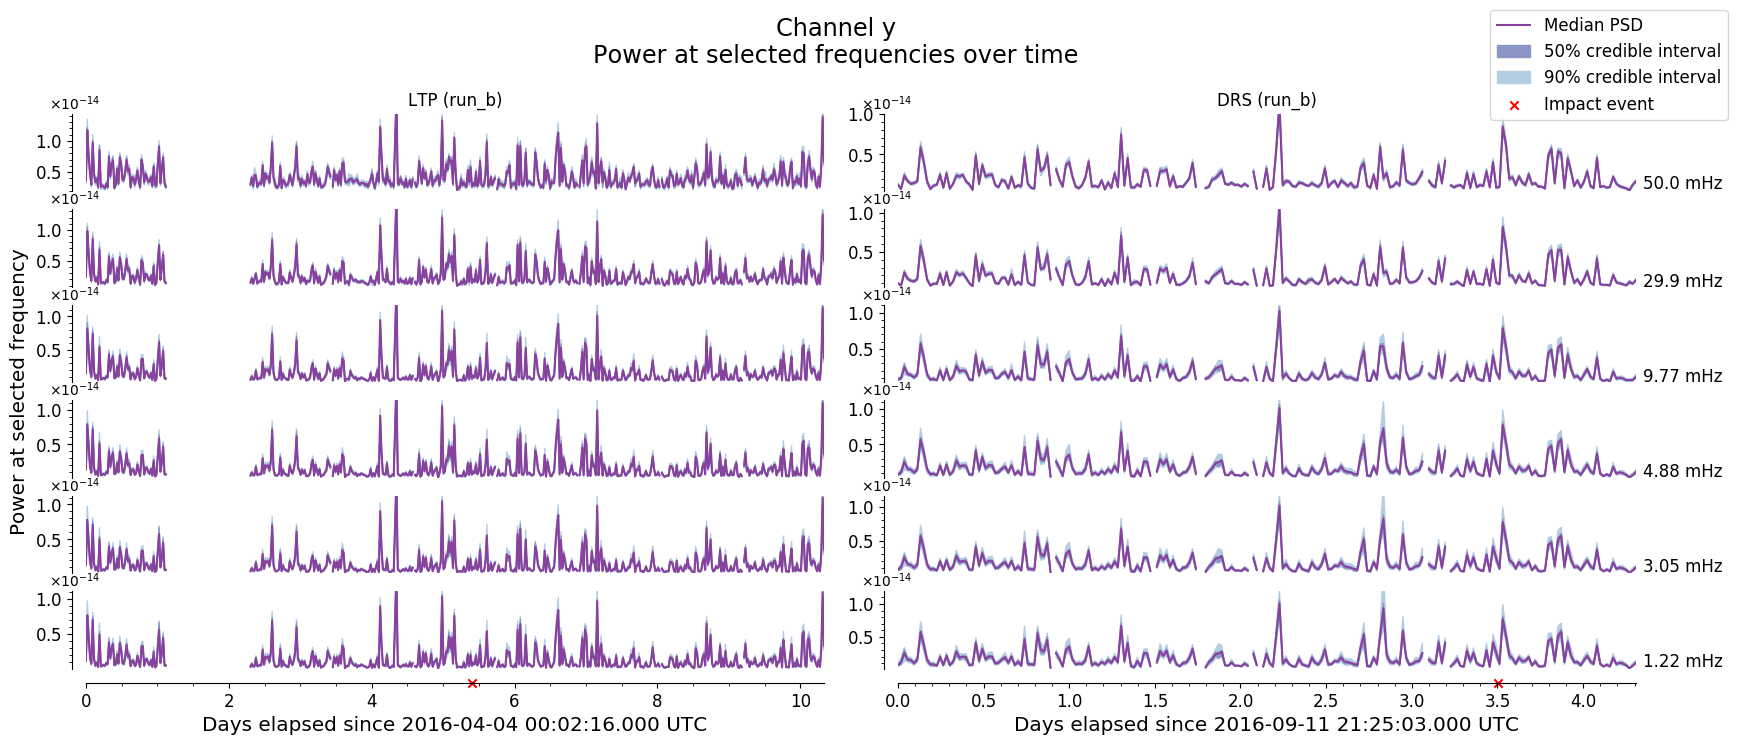
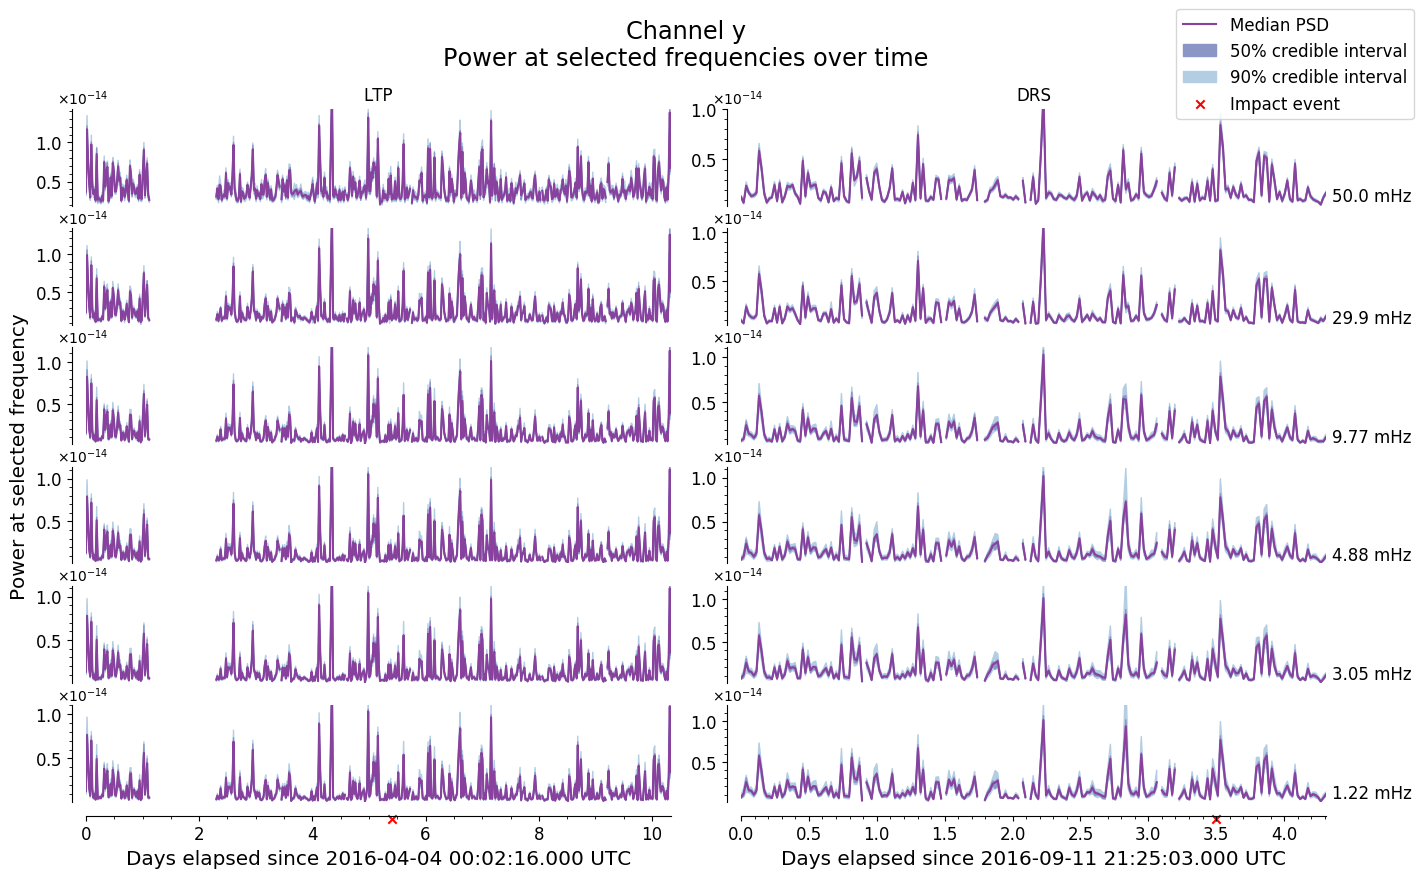
adjusted plot dimensions

Changed region(s): [[0.0, 0.0, 1.0, 0.9879]]

diff --git a/src/plot.py b/src/plot.py
@@ -97,7 +97,7 @@ def colormap(fig, ax, run, psd, cmap, vlims=None, cbar_label=None, center=None,
     ax.set_yscale('log')
     ax.set_ylim(bottom=1e-3, top=1.)
     # Axis labels
-    ax.set_xlabel(f'Days elapsed since {run.start_date} UTC', fontsize='large')
+    ax.set_xlabel(f'Days elapsed since {run.start_date} UTC', fontsize='x-large')
     # Tick label size
     ax.tick_params(axis='both', which='major', labelsize='large')
     # Add and label colorbar
@@ -194,7 +194,7 @@ def save_colormaps(run, channel, plot_file, show=False):
 
 def compare_colormaps(runs, channel, plot_file=None, show=False):
     # Setup figure
-    fig = plt.figure(figsize=(14, 6))
+    fig = plt.figure(figsize=(8 + len(runs) * 4, 9))
     fig.suptitle(f'Channel {channel}\n' + \
             'Power compared to median at observed times, frequencies',
             y=0.99, fontsize='xx-large')
@@ -210,7 +210,7 @@ def compare_colormaps(runs, channel, plot_file=None, show=False):
         median = unstacked.median(axis=1)
         
         # Subplots
-        ax.set_title(f'{run.mode.upper()} ({run.name})', size='x-large')
+        ax.set_title(f'{run.mode.upper()}', size='x-large')
         im = colormap(fig, ax, run,
             unstacked.sub(median, axis=0).div(median, axis=0), 
             cmap=cm.get_cmap('coolwarm'), vlims=(-1,1),
@@ -218,18 +218,18 @@ def compare_colormaps(runs, channel, plot_file=None, show=False):
         )
         # Only label y axis on left most plot
         if i==0:
-            ax.set_ylabel('Frequency (Hz)', fontsize='large')
+            ax.set_ylabel('Frequency (Hz)', fontsize='x-large')
     
     # Set tight layout
-    fig.tight_layout(rect=[0, 0, 1, 0.9])
+    fig.tight_layout(rect=[0, 0, 1, 0.92])
     
     # Make colorbar
     fig.subplots_adjust(right=0.9)
-    cbar_ax = fig.add_axes([0.92, 0.15, 0.02, 0.65])
+    cbar_ax = fig.add_axes([0.92, 0.15, 0.02, 0.66])
     cbar = fig.colorbar(im, cax=cbar_ax)
     cbar.ax.tick_params(labelsize='large')
     cbar.set_label('Relative difference from median PSD', labelpad=15, 
-            rotation=270, fontsize='large')
+            rotation=270, fontsize='x-large')
     
     if plot_file: plt.savefig(plot_file, bbox_inches='tight')
     if show: plt.show()
@@ -251,10 +251,10 @@ def save_freq_slices(runs, channel, frequencies, impacts=[],
       show : whether to display figure, defaults to no
     '''
     # Tweakables
-    figsize = (20, 7.5) # Relative figure size
+    figsize = (8 + len(runs) * 4, 9) # Relative figure size
     plot_height = 4 # Relative height of each subplot
     hspace = 3 # Relative vertical spaceing between subplots
-    wspace = 0.1
+    wspace = 0.12
     impactplot_height = 1 # Relative height of the impacts subplot
     spine_pad = 10 # Spine offset from subplots
     scaled_offset = 0.0025 * spine_pad # Scaled spine_pad
@@ -290,7 +290,7 @@ def save_freq_slices(runs, channel, frequencies, impacts=[],
             ax = fig.add_subplot(grid[plot_height*i:plot_height*i+plot_height, j])
             # Subplot title if top plot
             if i == 0:
-                ax.set_title(f'{run.mode.upper()} ({run.name})')
+                ax.set_title(f'{run.mode.upper()}')
                 # Also grab top axis legend info
                 ax1 = ax
             
@@ -397,9 +397,9 @@ def save_freq_slices(runs, channel, frequencies, impacts=[],
     handles += [impact_plt]
     order = [0, 2, 1, 3] # Reorder legend
     fig.legend(handles=[handles[i] for i in order], fontsize=legendsize, 
-            loc='upper right', bbox_to_anchor=(0.95, 1), 
+            loc='upper right', bbox_to_anchor=(0.96, 1), 
             bbox_transform=plt.gcf().transFigure)
-    plt.subplots_adjust(top=0.85)
+    plt.subplots_adjust(top=0.88)
     
     # Save / display figure
     if plot_file: plt.savefig(plot_file, bbox_inches='tight')
